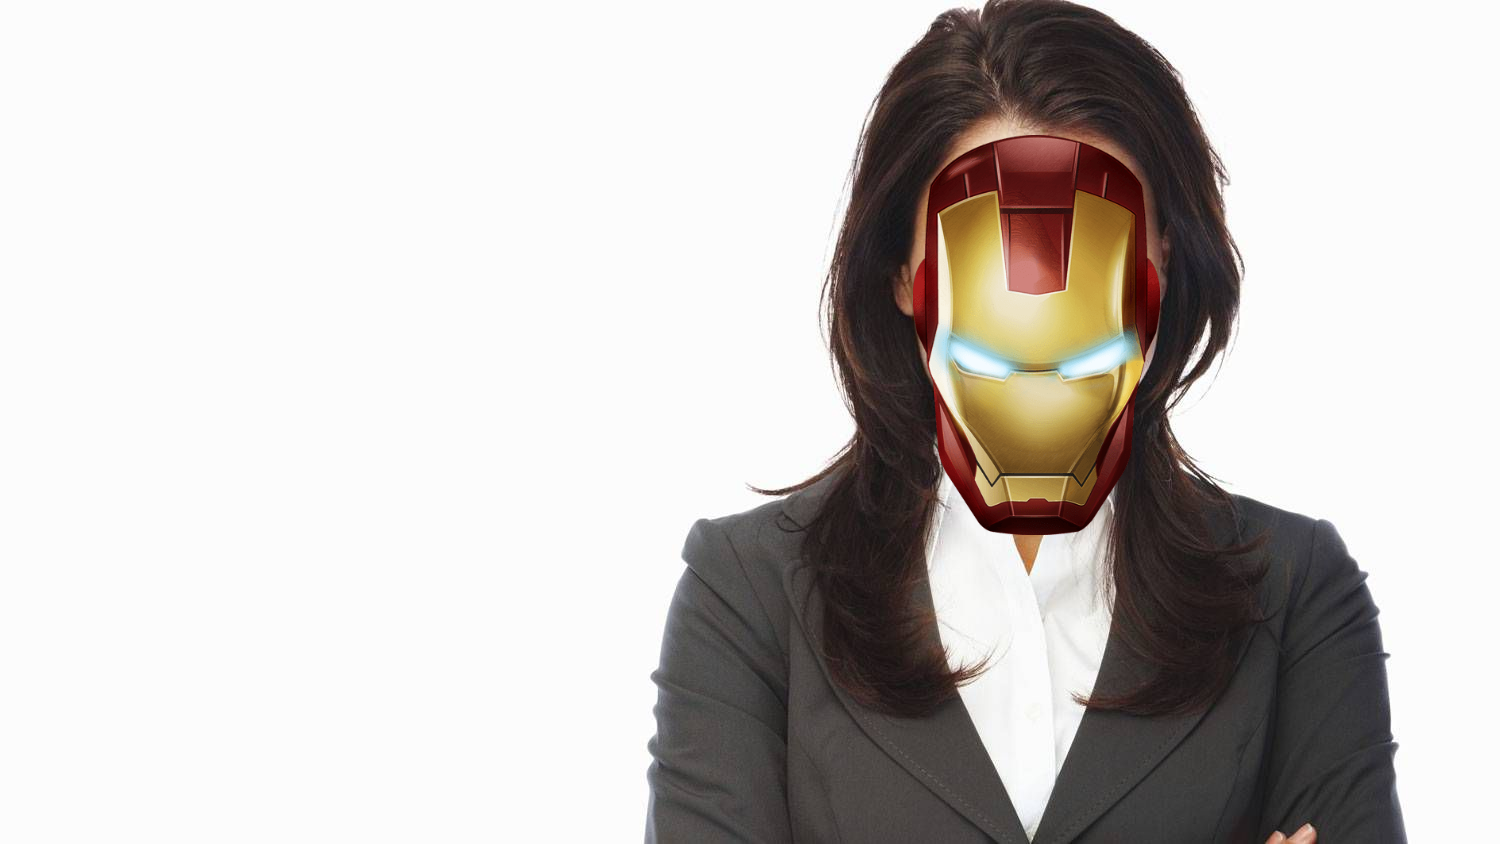
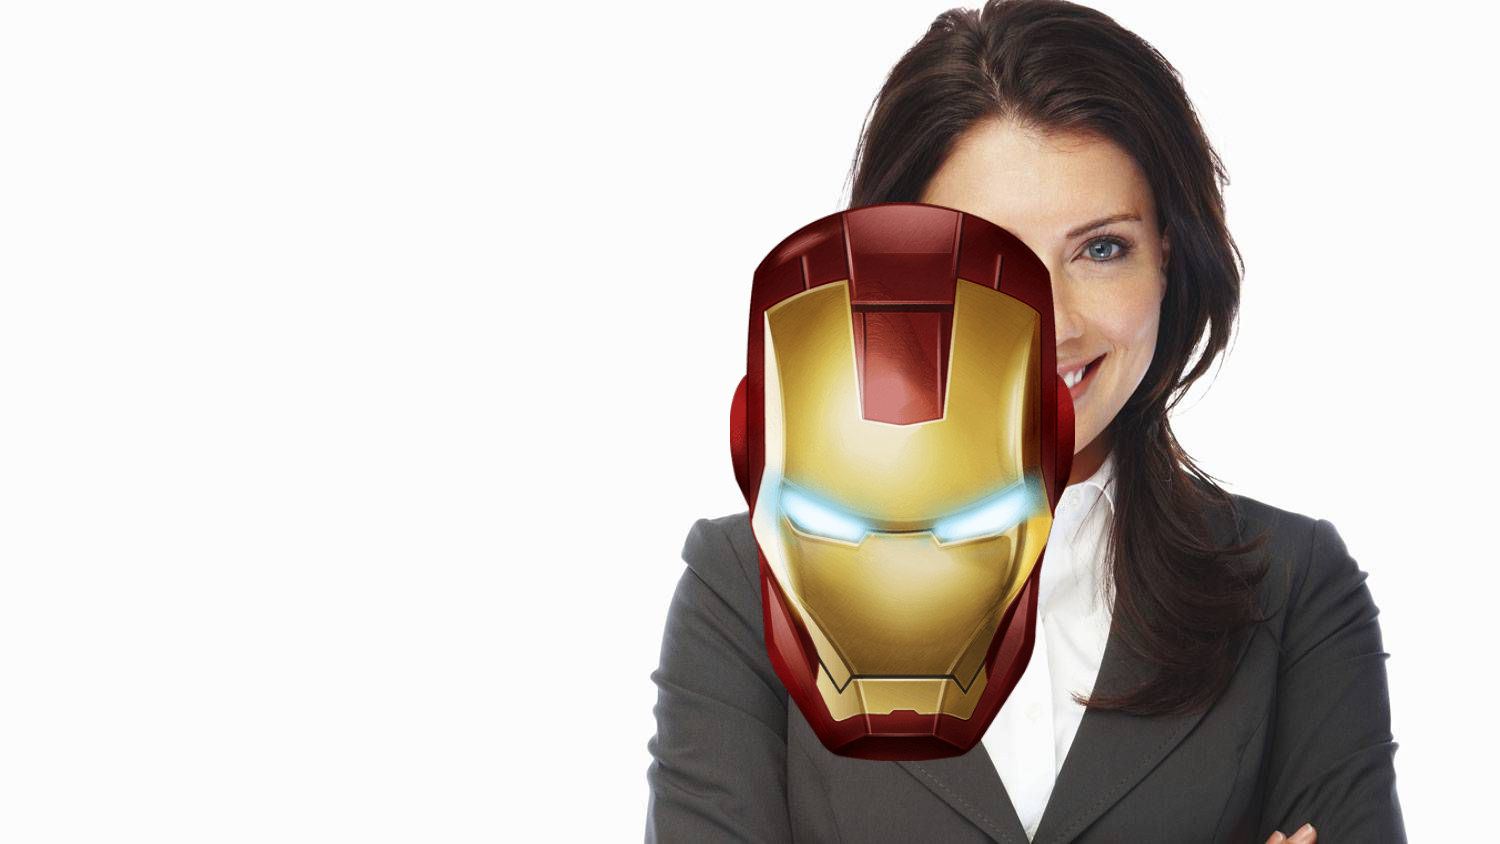
Filter size adjustments

Changed region(s): [[0.46, 0.154, 0.7973, 0.9242]]

diff --git a/main.py b/main.py
@@ -60,7 +60,7 @@ if __name__ == '__main__':
             print('landmark195 coords: ', center)
             print(image.shape)
 
-            filter_width = right[0] - left[0]
+            filter_width = int((right[0] - left[0]) * 1.4)
             filter_height = int(filter_width / filter_ratio)
 
             top_left = (int(center[0] - filter_width/2), int(center[1] - filter_height/2))
@@ -74,8 +74,8 @@ if __name__ == '__main__':
 
             ironman_filter = cv2.resize(ironman_filter, (filter_width, filter_height))
 
-            x_offset = int(left[0] * 1)
-            y_offset = int(top[1] * 0.8)
+            x_offset = int(left[0] * 0.8)
+            y_offset = int(top[1] * 1.2)
 
             y1, y2 = y_offset, y_offset + ironman_filter.shape[0]
             x1, x2 = x_offset, x_offset + ironman_filter.shape[1]
